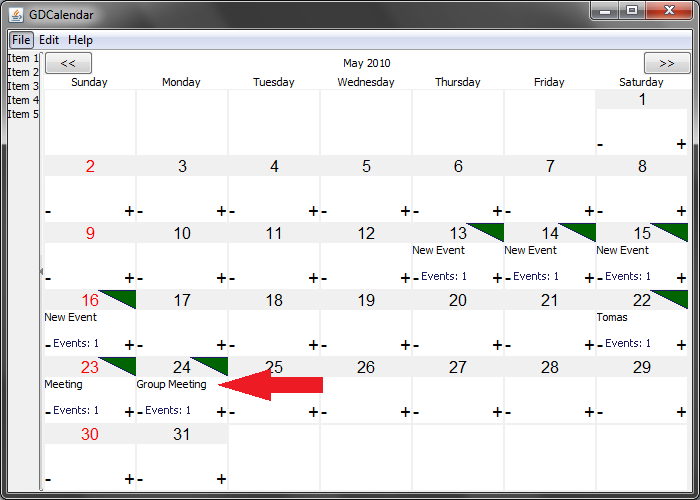
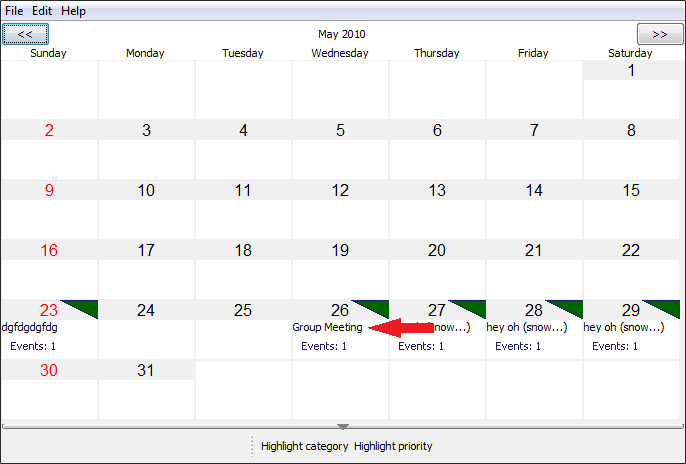
- Updated Help window / glass pane so it fits the images nicely now. - Updated help images to be neater and use the updated calendar gui.

diff --git a/src/gdcalendar/gui/OnlineHelpWindow.java b/src/gdcalendar/gui/OnlineHelpWindow.java
@@ -9,6 +9,8 @@ import actionmanager.Action;
 import actionmanager.ActionManager;
 import java.awt.Dimension;
 import java.awt.GridLayout;
+import java.awt.event.MouseEvent;
+import java.awt.event.MouseListener;
 import java.util.ResourceBundle;
 import javax.swing.JButton;
 import javax.swing.JFrame;
@@ -29,10 +31,10 @@ public class OnlineHelpWindow extends JFrame {
 
     public OnlineHelpWindow() {
         super("Online Help");
-        setSize(new Dimension(400, 400));
+        setSize(new Dimension(702, 502));
         setLayout(new GridLayout(3,0));
         setDefaultCloseOperation(DISPOSE_ON_CLOSE);
-
+        
         resource = ResourceBundle.getBundle("gdcalendar.resource_en_US");
         actionManager = new ActionManager(this, resource);
 
@@ -48,7 +50,7 @@ public class OnlineHelpWindow extends JFrame {
 
     @Override
     public Dimension getPreferredSize() {
-        return new Dimension(600, 600);
+        return new Dimension(702, 502);
     }
 
     /**

diff --git a/src/gdcalendar/gui/HelpGlassPane.java b/src/gdcalendar/gui/HelpGlassPane.java
@@ -30,7 +30,7 @@ public class HelpGlassPane extends JComponent implements IAnimatedComponent {
     String helpType;
 
     public HelpGlassPane(Container contentPane, String helpType) {
-        setSize(new Dimension(400, 400));
+        setSize(new Dimension(686, 464));
 
         this.helpType = helpType;
 
